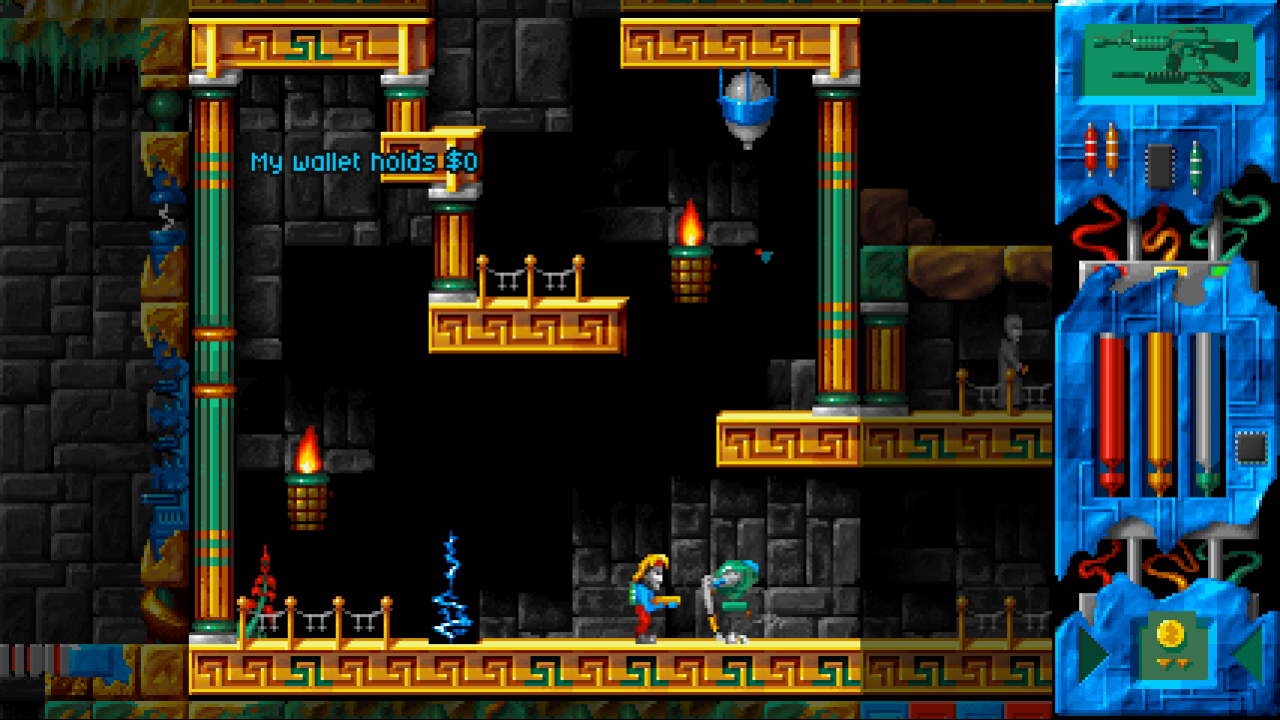
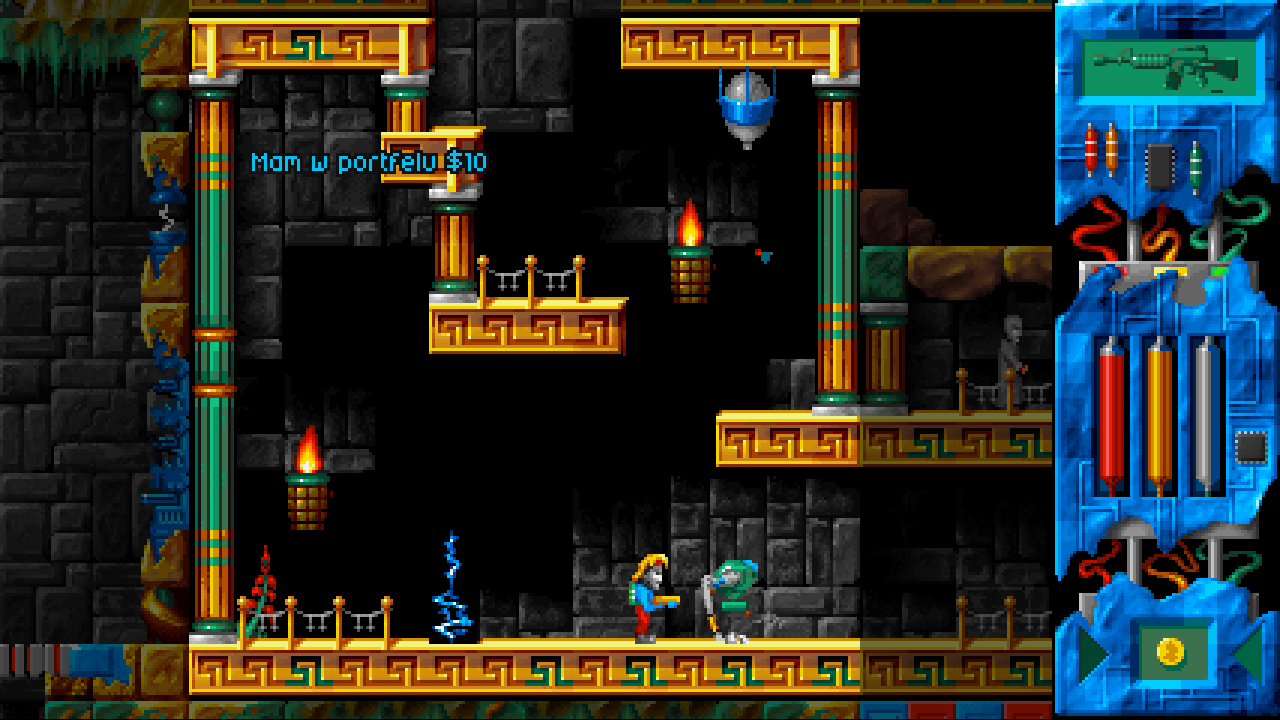
Start the remake in Polish with the original texts
English is now only used when chosen in the options (settings saved by the
earlier version, which followed the system language, switch back once).
Touch buttons are labelled in the game's language; screenshots updated.

Claude-Session: https://claude.ai/code/session_015dk2ZHzaTQKvxtVUNE1tFV

diff --git a/remake/README.md b/remake/README.md
@@ -34,22 +34,23 @@ HD, with keyboard, gamepad and on-screen touch controls.
 
 Details that differ from the original on purpose: shots touching harmful tiles do not hurt the hero (an
 original bug); the bullets of the hero's room are drawn clipped to it; there is a pause menu (the
-original's unused "Pauza" text exists) and an options screen; English text (`data/text_en.json`).
+original's unused "Pauza" text exists) and an options screen. The game starts in Polish with the original
+texts; English (`data/text_en.json`) can be chosen in the options.
 
 ## Controls
 
 | action | keyboard | gamepad | touch |
 |---|---|---|---|
 | walk | ← → (or A D) | d-pad / left stick | pad |
-| jump / jetpack thrust, menu up | ↑ (or W) | A, d-pad up | JUMP, pad up |
+| jump / jetpack thrust, menu up | ↑ (or W) | A, d-pad up | SKOK (JUMP), pad up |
 | crouch (pick up), menu down | ↓ (or S) | d-pad down | pad down |
-| fire | Ctrl (or J, X) | X, right trigger | FIRE |
-| use / talk / confirm | Enter (or E, K) | B | USE, tap |
-| jetpack on/off | Space (or L) | Y | JET |
-| previous / next item | , . (or Q, Tab) | LB / RB | INV, tap the HUD item |
-| weapon | 1–6, R = next | Back | WPN, tap the HUD weapon |
+| fire | Ctrl (or J, X) | X, right trigger | OGIEŃ (FIRE) |
+| use / talk / confirm | Enter (or E, K) | B | UŻYJ (USE), tap |
+| jetpack on/off | Space (or L) | Y | PLECAK (JET) |
+| previous / next item | , . (or Q, Tab) | LB / RB | RZECZ (ITEM), tap the HUD item |
+| weapon | 1–6, R = next | Back | BROŃ (GUN), tap the HUD weapon |
 | pause / options | Esc (or P) | Start | II |
-| full screen | F11, Alt+Enter | | options |
+| full screen | F11, Alt+Enter | | [ ], options |
 
 Dialogues continue with Fire, Enter, Space or a tap. The original's cheats work (`IDMORT`, `IDSIAR`,
 `IDLUFA`, `IDBULL`). The game is saved each time the hero enters a room; **Continue** on the title screen
